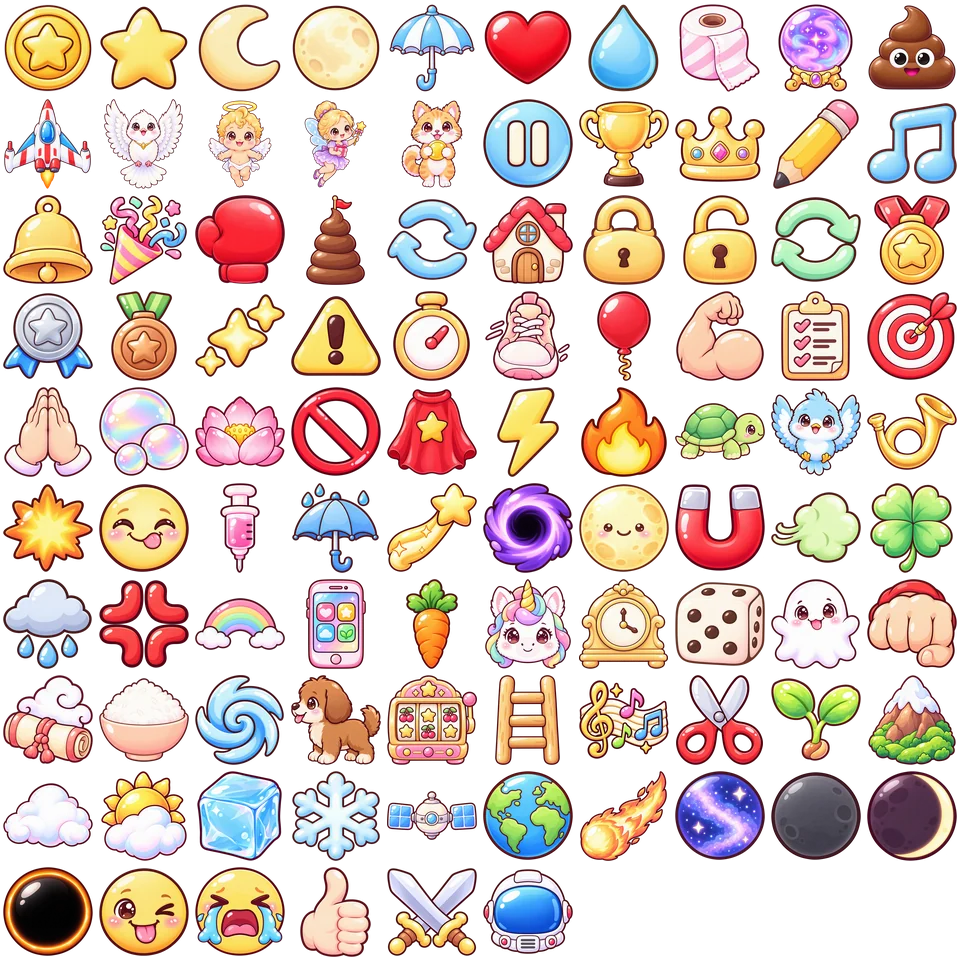
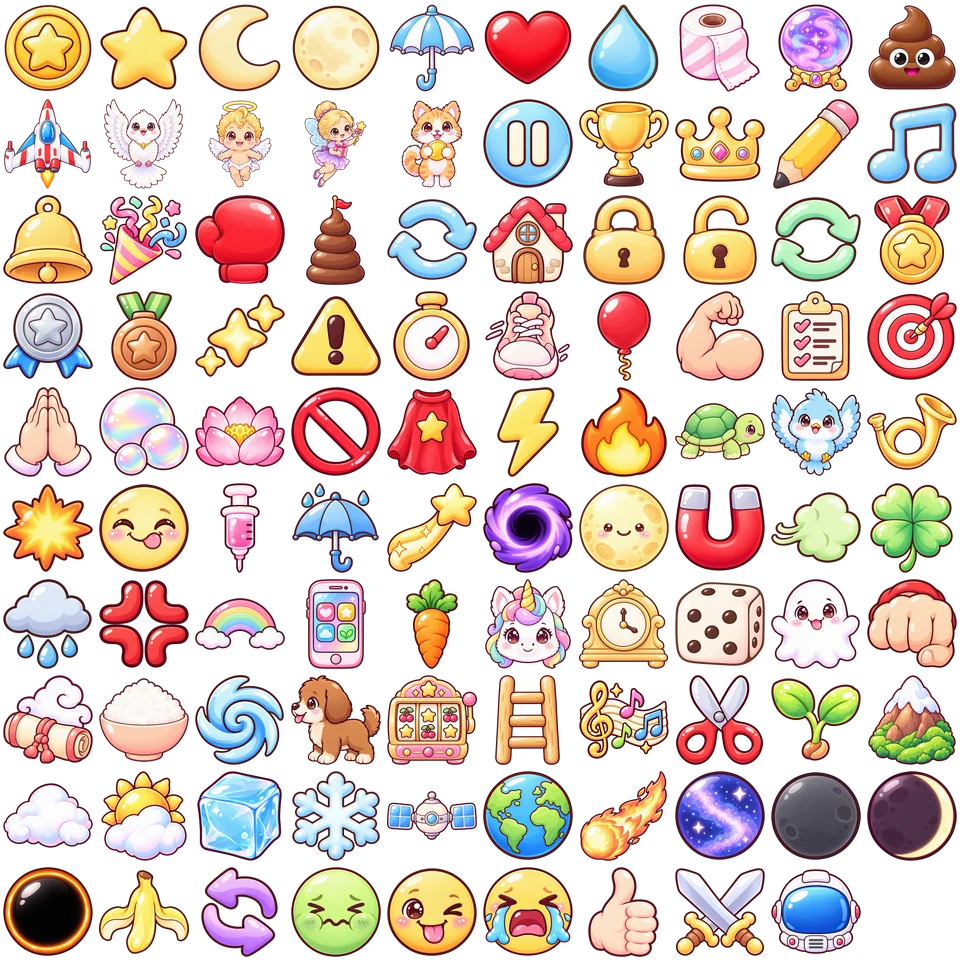
v0.8.32 대전 증강 — 로블록스판에서 6종(바나나·어지럼 저주·구린내·비둘기 폭격·얼음 바닥·잔상)

Changed region(s): [[0.0938, 0.9062, 0.9062, 1.0]]

diff --git a/index.html b/index.html
@@ -1060,7 +1060,7 @@
        밀어 숨길 뿐 남겨 두어 textContent 가 그대로다(글자를 읽는 코드가 안 깨진다). 나중에 붙는 글자는 MutationObserver 가 잡는다.
      · 캔버스 글자: fillText/strokeText 를 감싸 이모지 자리에 그림을 그린다 — 자리 폭은 원래 이모지 폭 그대로라 배치가 안 바뀐다.
      그림이 아직 안 왔거나 목록에 없는 이모지는 원래 이모지로 나온다. */
-  /*ICONS-BEGIN*/ const ICON_KEYS = ["🪙", "⭐", "🌙", "🌕", "☂", "❤", "💧", "🧻", "🔮", "💩", "🚀", "🕊", "👼", "🧚", "🐈", "⏸", "🏆", "👑", "✏", "🎵", "🔔", "🎉", "🥊", "🗼", "🔄", "🏠", "🔒", "🔓", "🔁", "🥇", "🥈", "🥉", "✨", "⚠", "⏱", "🏃", "🎈", "💪", "📋", "🎯", "🙏", "🫧", "🧘", "🚫", "🦸", "⚡", "🔥", "🐢", "🐦", "📯", "💥", "😋", "💉", "☔", "🌠", "🕳", "🌝", "🧲", "💨", "🍀", "🌧", "💢", "🌈", "📱", "🥕", "🦄", "🕰", "🎲", "👻", "👊", "👯", "🍚", "🌀", "🐕", "🎰", "🪜", "🎼", "✂", "🌱", "⛰", "☁", "🌤", "🧊", "❄", "🛰", "🌍", "☄", "🌌", "🌑", "🌒", "⚫", "😜", "😭", "👍", "⚔", "🧑🚀"]; const ICON_COLS = 10, ICON_ROWS = 10, ICON_CELL = 96; /*ICONS-END*/
+  /*ICONS-BEGIN*/ const ICON_KEYS = ["🪙", "⭐", "🌙", "🌕", "☂", "❤", "💧", "🧻", "🔮", "💩", "🚀", "🕊", "👼", "🧚", "🐈", "⏸", "🏆", "👑", "✏", "🎵", "🔔", "🎉", "🥊", "🗼", "🔄", "🏠", "🔒", "🔓", "🔁", "🥇", "🥈", "🥉", "✨", "⚠", "⏱", "🏃", "🎈", "💪", "📋", "🎯", "🙏", "🫧", "🧘", "🚫", "🦸", "⚡", "🔥", "🐢", "🐦", "📯", "💥", "😋", "💉", "☔", "🌠", "🕳", "🌝", "🧲", "💨", "🍀", "🌧", "💢", "🌈", "📱", "🥕", "🦄", "🕰", "🎲", "👻", "👊", "👯", "🍚", "🌀", "🐕", "🎰", "🪜", "🎼", "✂", "🌱", "⛰", "☁", "🌤", "🧊", "❄", "🛰", "🌍", "☄", "🌌", "🌑", "🌒", "⚫", "🍌", "😵", "🤢", "😜", "😭", "👍", "⚔", "🧑🚀"]; const ICON_COLS = 10, ICON_ROWS = 10, ICON_CELL = 96; /*ICONS-END*/
   const ICON_IDX = new Map(ICON_KEYS.map((k, i) => [k, i]));
   const ICON_RE = ICON_KEYS.length ? new RegExp("(" + ICON_KEYS.slice().sort((a, b) => b.length - a.length)
     .map(k => k.replace(/[.*+?^${}()|[\]\\]/g, "\\$&")).join("|") + ")\\uFE0F?", "gu") : null;
@@ -1179,7 +1179,7 @@
   const elTitle = document.getElementById("overTitle");
   const coinNote = document.getElementById("coinNote");
 
-  const GAME_VERSION = "v0.8.31";
+  const GAME_VERSION = "v0.8.32";
   /* 제작사 스플래시(bamhobak friends 로고) — 2026-09-20 끔. 다시 켜려면 true */
   const SPLASH_USE = false;   // 코드를 고칠 때마다 뒤 두 자리를 올린다
   document.getElementById("ver").textContent = GAME_VERSION;
@@ -5909,7 +5909,7 @@
     if (vsOn() && drag && !dragBlocked(e) && swipeUp(drag, pointerY(e), performance.now())) vsJump(1);   // 두 폰 대전 — 위로 쓸면 점프
     if (dragBlocked(e)) { drag = null; if (e.cancelable) e.preventDefault(); return; }
     if (!drag) { dragAnchor(e); if (e.cancelable) e.preventDefault(); return; }   // 막혀 있던 손가락은 여기서 기준점을 잡는다
-    const kd = prophIs("reverse") ? -1 : 1;           // 거꾸로 가는 날 — 끄는 방향과 반대로
+    const kd = (prophIs("reverse") || (vsOn() && vsReversed(player, performance.now()))) ? -1 : 1;   // 거꾸로 가는 날·어지럼 저주 — 끄는 방향과 반대로
     const wantX = drag.px + (pointerX(e) - drag.fx) * DRAG_GAIN * kd;
     const x = Math.max(player.r, Math.min(W - player.r, wantX));
     if (x !== wantX) drag.px += x - wantX;            // 끝에 닿으면 기준점을 끌어온다
@@ -7180,7 +7180,7 @@
     const kSpeed = 448 * spdMul() * dt;   // 키보드·십자패드 이동 속도 (v0.8.00 에 560 에서 20% 줄였다)
     // 패드는 민 정도만큼 속도가 붙는다 (키보드는 늘 최고 속도)
     const kx = kSpeed, ky = kSpeed;
-    const kd = prophIs("reverse") ? -1 : 1;           // 거꾸로 가는 날 — 좌우가 바뀐다
+    const kd = (prophIs("reverse") || (vsOn() && vsReversed(player, now))) ? -1 : 1;   // 거꾸로 가는 날·어지럼 저주 — 좌우가 바뀐다
     const vk = vsOn() && !NET.role;                   // 한 폰 대전 — 방향키는 P2 몫
     if ((!vk && keys.ArrowLeft)  || keys.a || keys.A) player.tx -= kx * kd;
     if ((!vk && keys.ArrowRight) || keys.d || keys.D) player.tx += kx * kd;
@@ -7194,9 +7194,12 @@
     const prev = player.x;
     // 손가락을 반대편에 찍어도 순간이동하지 않도록 최고 속도를 제한한다
     // 대전모드 — 밟혀서 멈춘 동안은 제자리 (손가락 목표는 그대로 두어 풀리면 가던 쪽으로 간다)
-    const want = (vsOn() && stunned(player, now)) ? 0 : (player.tx - player.x) * Math.min(1, dt * 20);
-    const maxStep = PLAYER_MAX_SPEED * spdMul() * dt;
-    player.x += Math.max(-maxStep, Math.min(maxStep, want));
+    if (vsOn()) vsMoveBody(player, dt, now);          // 대전모드 — 밟혀 멈춤·바나나·얼음·구린내
+    else {
+      const want = (player.tx - player.x) * Math.min(1, dt * 20);
+      const maxStep = PLAYER_MAX_SPEED * spdMul() * dt;
+      player.x += Math.max(-maxStep, Math.min(maxStep, want));
+    }
     /* ── 방귀 대시 — 돌진하는 동안은 끌기보다 앞선다 ──
        끌기 기준점(drag.px)과 목표(player.tx)를 함께 끌고 가야, 대시가 끝나는 순간
        손가락이 잡고 있던 원래 자리로 확 빨려 돌아가지 않는다. */
@@ -8455,6 +8458,9 @@
     player.emo = rival.emo = null;
     bubbleOn = job === "bangul"; rival.bubble = rivalJob === "bangul";   // 방울이 — 판마다 한 번 막는 비누방울
     player.floatT = rival.floatT = 0;
+    vsPeels = []; vsIce = []; vsPigeons = [];
+    for (const b of [player, rival]) { b.slipUntil = 0; b.revUntil = 0; b.stinkT = 0; b.iv = 0; }
+    rival.dodge = 0;
     p1kv = 0; vsBumpCd = 0; vsLoser = 0; vsTouches.clear();
     facing = NET.role === "guest" ? "left" : "right";
     rival.facing = NET.role === "guest" ? "right" : "left";
@@ -8508,7 +8514,7 @@
           d = { who, fx: x, px: who === 1 ? player.tx : rival.tx };
           vsTouches.set(t.identifier, d);
         }
-        const want = d.px + (x - d.fx) * DRAG_GAIN;
+        const want = d.px + (x - d.fx) * DRAG_GAIN * (vsReversed(d.who === 1 ? player : rival, performance.now()) ? -1 : 1);
         const cl = Math.max(player.r, Math.min(W - player.r, want));
         if (cl !== want) d.px += cl - want;            // 끝에 닿으면 기준점을 끌어온다
         if (d.who === 1) player.tx = cl; else rival.tx = cl;
@@ -8524,14 +8530,16 @@
       if (g) rival.tx = g.x + (g.vx || 0) * ((now - NET.gAt) / 1000 + NET_LAT);
     } else {                                            // 한 폰 — P2 는 ← → 와 오른쪽 손가락
       const ks = 448 * dt;
-      if (keys.ArrowLeft)  rival.tx -= ks;
-      if (keys.ArrowRight) rival.tx += ks;
+      const rk = vsReversed(rival, now) ? -1 : 1;         // 어지럼 저주
+      if (keys.ArrowLeft)  rival.tx -= ks * rk;
+      if (keys.ArrowRight) rival.tx += ks * rk;
     }
     rival.tx = Math.max(player.r, Math.min(W - player.r, rival.tx));
     const prev = rival.x;
-    // 밟혀서 멈춘 동안 제자리 (두 폰이면 상대 폰이 스스로 멈춘다)
-    const want = (!net && stunned(rival, now)) ? 0 : (rival.tx - rival.x) * Math.min(1, dt * 20), maxStep = PLAYER_MAX_SPEED * dt;
-    rival.x += Math.max(-maxStep, Math.min(maxStep, want));
+    if (net) {                                          // 두 폰 — 받은 자리를 따라갈 뿐 (멈춤·미끄러짐은 상대 폰이 스스로)
+      const want = (rival.tx - rival.x) * Math.min(1, dt * 20), maxStep = PLAYER_MAX_SPEED * 1.5 * dt;
+      rival.x += Math.max(-maxStep, Math.min(maxStep, want));
+    } else vsMoveBody(rival, dt, now);
     // 튕겨 나가는 힘 — 금방 잦아든다
     if (rival.kv) vsShift(2, rival.kv * dt);
     if (p1kv) vsShift(1, p1kv * dt);
@@ -8556,6 +8564,7 @@
 
     vsMoonStep(dt);
     vsRouletteStep(dt);
+    vsWorldStep(dt, now);
     if (!net && dying <= 0) {                            // 한 폰 P2 가 달을 먹는다 (두 폰이면 상대 폰이 잰다)
       const cy2 = rival.y + rival.hy;
       for (let i = items.length - 1; i >= 0; i--) {
@@ -8638,6 +8647,11 @@
       if (it.type !== "poop" || it.bounced || it.ghost || it.gold || it.skin === "fever") continue;
       const px = it.x - (it.vx || 0) * dt, py = it.y - (it.vy || 0) * dt;
       if (segDist(rival.x, cy, px, py, it.x, it.y) >= it.r + R) continue;
+      if (rival.dodge > 0 && Math.random() < rival.dodge) {   // 잔상 — 잔상만 남기고 피한다
+        it.ghost = true;
+        popText(rival.x, rival.y - 60, "잔상!", "#cbb8ff", 18);
+        continue;
+      }
       if (rival.bubble) {                                // 방울이 비누방울 — 판마다 한 번
         rival.bubble = false; rival.inv = now + 900;
         items.splice(i, 1);
@@ -8763,7 +8777,14 @@
     { id: "dash",  ic: "💨", nm: "방귀 대시",  keep: true },   // 두 번 두드려 순간이동 (제 폰의 제 캐릭터만)
     { id: "umb",   ic: "☂", nm: "우산" },                     // 똥 한 번 막기 (최대 2)
     { id: "heart", ic: "❤", nm: "하트" },                     // 목숨 +1 (최대 5)
-    { id: "bomb",  ic: "💩", nm: "똥 폭탄" }                   // 상대 머리 위로 똥 세 개
+    { id: "bomb",  ic: "💩", nm: "똥 폭탄" },                  // 상대 머리 위로 똥 세 개
+    // v0.8.32 로블록스판에서 가져온 것 (설명은 아래 '로블록스판에서 가져온 것')
+    { id: "banana",  ic: "🍌", nm: "바나나 껍질" },
+    { id: "reverse", ic: "😵", nm: "어지럼 저주" },
+    { id: "stink",   ic: "🤢", nm: "구린내" },
+    { id: "pigeon",  ic: "🐦", nm: "비둘기 폭격" },
+    { id: "ice",     ic: "🧊", nm: "얼음 바닥" },
+    { id: "ghost",   ic: "👻", nm: "잔상" }
   ];
   const VS_RL_SEC = 1, VS_MOON_MIN = 8, VS_MOON_MAX = 12, VS_MAX_LIVES = 5;
   let vsMoonT = 0;
@@ -8771,7 +8792,9 @@
   function vsHas(b, id) { return !!vsAugOf(b)[id]; }
   // 무엇이 나올지 — 계속 붙는 것 중 이미 가진 건 뺀다. 한 폰의 P2 는 두드릴 곳이 없어 방귀 대시를 뺀다
   function vsRollAug(b) {
-    const pool = VS_AUGS.filter(a => !(a.keep && vsHas(b, a.id)) && !(a.id === "dash" && b === rival && !NET.role));
+    const dodge = b === player ? aug.dodge : (b.dodge || 0);
+    const pool = VS_AUGS.filter(a => !(a.keep && vsHas(b, a.id)) && !(a.id === "dash" && b === rival && !NET.role)
+                                    && !(a.id === "ghost" && dodge >= VS_DODGE_MAX));   // 잔상은 두 번까지
     return pool[Math.floor(Math.random() * pool.length)].id;
   }
   // who(1 = 이 폰의 나, 2 = 상대)가 달을 먹었다 — 룰렛을 돌리고 끝나면 붙인다
@@ -8792,6 +8815,7 @@
       else if (!guestSide) rival.lives = Math.min(VS_MAX_LIVES, rival.lives + 1);   // 들어온 쪽은 상대 목숨을 받은 값으로만 본다
     }
     if (id === "bomb" && !guestSide) vsDropBomb(me ? rival : player);              // 똥은 방장(한 폰)이 만든다
+    vsApplyRb(who, id, performance.now());
     const x = b.x, y = (b.y || groundY) + (b === player ? player.hy : rival.hy) - vsR() * 2.8;
     popText(x, y, (a ? a.ic + " " + a.nm : id) + "!", me ? "#8fd0ff" : "#ffb3d6", 22);
     burst(x, y + 20, "#ffe08a", 14);
@@ -9000,6 +9024,129 @@
     }
   }
 
+  /* ---------- 대전 증강 — 로블록스판에서 가져온 것 (v0.8.32) ----------
+     🍌 바나나 껍질 — 내 발밑에 껍질. 상대가 밟으면 VS_SLIP_MS 동안 조작이 안 먹고 미끄러진다 (내 껍질은 안 미끄러진다)
+     😵 어지럼 저주 — 상대의 좌우가 VS_REV_MS 동안 반대
+     🤢 구린내 — VS_STINK_SEC 동안 내 둘레에 초록 구름. 상대가 안에 있으면 걸음이 절반
+     🐦 비둘기 폭격 — 비둘기 두 마리가 나에게서 좌우로 날아가며 똥을 VS_PG_DROPS 개씩 떨군다
+     🧊 얼음 바닥 — 내가 보는 쪽 앞 바닥이 VS_ICE_SEC 동안 얼음. 올라서면(누구든) 미끄러워 늦게 서고 늦게 돈다
+     👻 잔상 — 맞을 때 15% 로 잔상만 남기고 피한다 (두 번까지 쌓여 30%)
+     두 폰이면 증강이 붙을 때 두 폰이 똑같이 만든다(껍질·얼음·구름·비둘기). 똥은 방장만 떨구고,
+     껍질을 밟았는지는 밟은 쪽 폰이 재서 상대 폰에 알린다("peel"). */
+  const VS_SLIP_MS = 1000, VS_REV_MS = 5000, VS_STINK_SEC = 4, VS_ICE_SEC = 5, VS_PG_DROPS = 7;
+  const VS_PG_START = 40, VS_PG_GAP = 40, VS_PG_SPEED = 200, VS_ICE_LEN = 220, VS_DODGE = 0.15, VS_DODGE_MAX = 0.3;
+  let vsPeels = [], vsIce = [], vsPigeons = [];
+  function vsStinkR() { return vsR() * 4; }
+  function vsOther(b) { return b === player ? rival : player; }
+  function vsReversed(b, now) { return now < (b.revUntil || 0); }
+  function vsOnIce(b) { return (b.jh || 0) < 4 && vsIce.some(z => b.x >= z.x0 && b.x <= z.x1); }
+  function vsInStink(b) {
+    const o = vsOther(b);
+    return (o.stinkT || 0) > 0 && Math.abs(b.x - o.x) < vsStinkR() && Math.abs((b.jh || 0) - (o.jh || 0)) < vsStinkR();
+  }
+  // 몸 하나 옮기기 — 미끄러짐(바나나)·멈춤(밟기)·얼음·구린내를 반영한다
+  function vsMoveBody(b, dt, now) {
+    const lo = player.r, hi = W - player.r;
+    if (now < (b.slipUntil || 0)) {                    // 바나나 — 조작이 안 먹고 미끄러져 간다
+      b.x = Math.max(lo, Math.min(hi, b.x + (b.slipV || 0) * dt));
+      b.slipV = (b.slipV || 0) * Math.exp(-2.5 * dt);
+      b.iv = 0;
+      return;
+    }
+    if (stunned(b, now)) { b.iv = 0; return; }
+    const maxS = PLAYER_MAX_SPEED * (vsInStink(b) ? 0.5 : 1);
+    const desired = Math.max(-maxS, Math.min(maxS, (b.tx - b.x) * 20));
+    b.iv = vsOnIce(b) ? (b.iv || 0) + (desired - (b.iv || 0)) * Math.min(1, dt * 1.6) : desired;   // 얼음 위는 늦게 서고 늦게 돈다
+    b.x = Math.max(lo, Math.min(hi, b.x + b.iv * dt));
+  }
+  function vsDropPoopAt(x, y, vy) {
+    const r = 15 * VS_SCALE * 1.1;
+    items.push({ type: "poop", emoji: "💩", x: Math.max(r, Math.min(W - r, x)), y, r,
+                 vx: 0, vy: vy * (H / BASE_H), rot: 0, vr: (Math.random() - .5) * 4, swayA: 0, swayW: 1, swayP: 0,
+                 size: r * 2, sz: r, fast: true, skin: "poop", space: inSpace(), gold: false, dark: false, special: null,
+                 bumpCd: 0, phase: 0, splitAt: 1e9, sz0: 0, pv: randPv(), gain: 0, giant: false, born: elapsed });
+  }
+  // 로블록스판 증강 붙이기 — who(1 나·2 상대)가 쓴 것. 두 폰이 똑같이 부른다
+  function vsApplyRb(who, id, now) {
+    const b = who === 1 ? player : rival, o = vsOther(b), host = NET.role !== "guest";
+    const face = (b === player ? facing : rival.facing) === "left" ? -1 : 1;
+    if (id === "banana") vsPeels.push({ x: b.x, owner: who, t: 25 });
+    else if (id === "reverse") {
+      o.revUntil = now + VS_REV_MS;
+      popText(o.x, groundY - (o.jh || 0) - vsR() * 3.4, "😵 좌우 반대!", "#c9a2ff", 20);
+    } else if (id === "stink") b.stinkT = VS_STINK_SEC;
+    else if (id === "pigeon") {
+      for (const dir of [-1, 1]) vsPigeons.push({ x0: b.x, x: b.x, y: H * 0.2, dir, n: 0, next: VS_PG_START, spawn: host, ph: Math.random() * 6 });
+    } else if (id === "ice") {
+      const a = b.x + face * vsR() * 1.2, z = a + face * VS_ICE_LEN;
+      vsIce.push({ x0: Math.max(0, Math.min(a, z)), x1: Math.min(W, Math.max(a, z)), t: VS_ICE_SEC });
+    } else if (id === "ghost") {
+      if (who === 1) aug.dodge = Math.min(VS_DODGE_MAX, aug.dodge + VS_DODGE);
+      else rival.dodge = Math.min(VS_DODGE_MAX, (rival.dodge || 0) + VS_DODGE);
+    }
+  }
+  // 매 프레임 — 껍질·얼음·구름·비둘기 (방장·한 폰은 vsUpdate, 들어온 쪽은 guestUpdate)
+  function vsWorldStep(dt, now) {
+    for (let i = vsPeels.length - 1; i >= 0; i--) { vsPeels[i].t -= dt; if (vsPeels[i].t <= 0) vsPeels.splice(i, 1); }
+    for (let i = vsIce.length - 1; i >= 0; i--) { vsIce[i].t -= dt; if (vsIce[i].t <= 0) vsIce.splice(i, 1); }
+    for (const b of [player, rival]) if (b.stinkT > 0) b.stinkT = Math.max(0, b.stinkT - dt);
+    // 껍질 밟기 — 제 몸은 제 폰이 잰다 (한 폰이면 둘 다)
+    const bodies = NET.role ? [[1, player]] : [[1, player], [2, rival]];
+    for (const [who, b] of bodies) {
+      if ((b.jh || 0) > 4 || now < (b.slipUntil || 0) || dying > 0) continue;
+      const k = vsPeels.findIndex(pl => pl.owner !== who && Math.abs(pl.x - b.x) < vsR() * 0.9);
+      if (k < 0) continue;
+      const pl = vsPeels.splice(k, 1)[0];
+      const face = (b === player ? facing : rival.facing) === "left" ? -1 : 1;
+      b.slipUntil = now + VS_SLIP_MS; b.slipV = face * 460;
+      if (NET.role) netSend("peel", { x: Math.round(pl.x) });
+      popText(b.x, groundY - vsR() * 3, "미끄덩!", "#ffe066", 22);
+      beep(300, .08, "sine", .05); beep(200, .12, "sine", .04);
+    }
+    // 비둘기 — 날아가며 똥을 떨군다 (똥은 방장·한 폰만 만든다)
+    for (let i = vsPigeons.length - 1; i >= 0; i--) {
+      const pg = vsPigeons[i];
+      pg.x += pg.dir * VS_PG_SPEED * dt; pg.ph += dt * 12;
+      while (pg.n < VS_PG_DROPS && Math.abs(pg.x - pg.x0) >= pg.next) {
+        if (pg.spawn && pg.x > 0 && pg.x < W) vsDropPoopAt(pg.x, pg.y + 10, 320);
+        pg.n++; pg.next += VS_PG_GAP;
+      }
+      if (pg.n >= VS_PG_DROPS && (pg.x < -60 || pg.x > W + 60)) vsPigeons.splice(i, 1);
+    }
+  }
+  function drawVsWorld(now) {
+    const gy = groundY + 2;
+    for (const z of vsIce) {                            // 얼음 바닥 — 땅 선을 따라 하늘색 띠
+      ctx.save();
+      ctx.globalAlpha = Math.min(1, z.t / 0.6) * 0.75;
+      ctx.fillStyle = "rgba(170,225,255,.7)"; ctx.strokeStyle = "rgba(255,255,255,.9)"; ctx.lineWidth = 2;
+      ctx.beginPath(); ctx.roundRect(z.x0, gy - 7, z.x1 - z.x0, 14, 7); ctx.fill(); ctx.stroke();
+      ctx.fillStyle = "#fff";
+      for (let k = z.x0 + 14; k < z.x1; k += 38) { ctx.beginPath(); ctx.arc(k + Math.sin(now / 300 + k) * 3, gy - 2, 1.8, 0, 6.283); ctx.fill(); }
+      ctx.restore();
+    }
+    for (const pl of vsPeels) {                          // 바나나 껍질
+      ctx.save();
+      ctx.globalAlpha = Math.min(1, pl.t / 0.6);
+      ctx.font = Math.round(vsR() * 1.1) + "px serif"; ctx.textAlign = "center"; ctx.textBaseline = "middle";
+      ctx.fillText("🍌", pl.x, gy - 6);
+      ctx.restore();
+    }
+    for (const b of [player, rival]) {                   // 구린내 구름
+      if (!(b.stinkT > 0)) continue;
+      const cx = b.x, cy = (b === player ? player.y + player.hy : rival.y + rival.hy), R = vsStinkR();
+      ctx.save();
+      ctx.globalAlpha = Math.min(1, b.stinkT / 0.5) * 0.28;
+      ctx.fillStyle = "#7cc84a";
+      for (let k = 0; k < 7; k++) {
+        const a = k * 0.9 + now / 900, rr = R * (0.42 + 0.12 * Math.sin(now / 400 + k));
+        ctx.beginPath(); ctx.arc(cx + Math.cos(a) * R * 0.5, cy + Math.sin(a) * R * 0.35, rr, 0, 6.283); ctx.fill();
+      }
+      ctx.restore();
+    }
+    for (const pg of vsPigeons) drawDove(pg.x, pg.y + Math.sin(pg.ph) * 4, pg.ph, null);
+  }
+
   /* ---------- 대전모드 온라인 (v0.8.25) — 두 폰으로 ----------
      Supabase Realtime(브로드캐스트)으로 방 하나(방 번호 4자리)에 둘이 들어간다. 라이브러리 없이 웹소켓으로 직접 붙는다
      (Phoenix 채널 규약: phx_join · broadcast · 25초마다 heartbeat).
@@ -9011,7 +9158,7 @@
      · 끝은 host 가 정한다("over"). 6초 동안 아무것도 안 오면 상대가 나간 것으로 친다.
      폰마다 제 캐릭터가 player(나), 상대가 rival 이다 — host 는 쉬었음 청년, guest 는 방울이. */
   const NET = { ws: null, topic: "", role: "", code: "", ref: 0, hbT: 0, lastRx: 0, sendT: 0, joined: false,
-                hiT: 0, items: new Map(), eaten: new Set(), snapAt: 0, snap: null, gAt: 0, g: null,
+                hiT: 0, items: new Map(), eaten: new Set(), dodged: new Set(), snapAt: 0, snap: null, gAt: 0, g: null,
                 again: false, peerAgain: false, gone: false };
   const NET_RATE = 0.1, NET_LAT = 0.08, NET_TIMEOUT = 6000;
   function netOn() { return !!NET.role && runMode === "vs"; }
@@ -9100,6 +9247,13 @@
     const now = performance.now();
     if (ev === "bye") { netLost(); return; }
     if (ev === "emo") { vsShowEmo(rival, p.e | 0); return; }
+    if (ev === "peel") {
+      let k = -1, bd = 60;
+      vsPeels.forEach((pl, i) => { const d = Math.abs(pl.x - p.x); if (d < bd) { bd = d; k = i; } });
+      if (k >= 0) vsPeels.splice(k, 1);
+      popText(rival.x, groundY - vsR() * 3, "미끄덩!", "#ffe066", 22);
+      return;
+    }
     if (NET.role === "host") {
       if (ev === "hi") {
         // 처음 한 번만 — 들어온 쪽은 'start' 를 받을 때까지 hi 를 되풀이하므로 두 번째부터는 무시
@@ -9145,7 +9299,7 @@
   function netStartMatch() {
     vsScreen.classList.add("hidden");
     overScreen.classList.add("hidden");
-    NET.items.clear(); NET.eaten.clear(); NET.snap = null; NET.g = null;
+    NET.items.clear(); NET.eaten.clear(); NET.dodged.clear(); NET.snap = null; NET.g = null;
     NET.again = NET.peerAgain = false; NET.gone = false; NET.sendT = 0; NET.lastRx = performance.now();
     beep(900, .08, "square", .05);
     reset(false);
@@ -9169,13 +9323,12 @@
       }
     }
     // 내 캐릭터 — 원래 판과 같은 움직임
-    const kSpeed = 448 * dt;
+    const kSpeed = 448 * dt * (vsReversed(player, now) ? -1 : 1);   // 어지럼 저주면 좌우 반대
     if (keys.ArrowLeft || keys.a || keys.A) player.tx -= kSpeed;
     if (keys.ArrowRight || keys.d || keys.D) player.tx += kSpeed;
     player.tx = Math.max(player.r, Math.min(W - player.r, player.tx));
     const prev = player.x;
-    const want = stunned(player, now) ? 0 : (player.tx - player.x) * Math.min(1, dt * 20), maxStep = PLAYER_MAX_SPEED * dt;   // 밟혀서 멈춘 동안 제자리
-    player.x += Math.max(-maxStep, Math.min(maxStep, want));
+    vsMoveBody(player, dt, now);                        // 밟혀 멈춤·바나나·얼음·구린내
     if (p1kv) vsShift(1, p1kv * dt);
     p1kv *= Math.exp(-7 * dt); if (Math.abs(p1kv) < 5) p1kv = 0;
     player.vx = (player.x - prev) / Math.max(dt, .001);
@@ -9186,6 +9339,7 @@
     player.y = groundY - (player.jh || 0);
     player.hy = headOffset(currentSprite(now));
     vsRouletteStep(dt);
+    vsWorldStep(dt, now);
     if (!s) return;
     // 상대(방장) — 받은 자리에서 속도만큼 앞당긴다
     const lead = age + NET_LAT;
@@ -9230,8 +9384,13 @@
     items = Array.from(NET.items.values());
     if (now < invUntil) return;
     for (const it of items) {
-      if (it.type !== "poop") continue;
+      if (it.type !== "poop" || NET.dodged.has(it.nid)) continue;
       if (segDist(player.x, cy, it.x - it.vx * dt, it.y - it.vy * dt, it.x, it.y) >= it.r + R) continue;
+      if (aug.dodge > 0 && Math.random() < aug.dodge) {   // 잔상 — 이 똥은 지나간다
+        NET.dodged.add(it.nid);
+        popText(player.x, player.y - 60, "잔상!", "#cbb8ff", 18);
+        continue;
+      }
       if (bubbleOn) {                                  // 방울이 비누방울 — 판마다 한 번 (방장에겐 맞은 것으로 알리지 않는다)
         bubbleOn = false; invUntil = now + 900;
         NET.eaten.add(it.nid); NET.items.delete(it.nid);
@@ -12676,6 +12835,7 @@
       drawItems(now);
       drawHelpers();
       if (state !== STATE.OVER) drawPetsBack(now);
+      if (vsOn() && state !== STATE.OVER && state !== STATE.READY) drawVsWorld(now);   // 얼음·껍질·구름·비둘기
       if (state !== STATE.OVER) drawPlayer(now);
       if (vsOn() && state !== STATE.OVER && state !== STATE.READY) { asRival(() => drawPlayer(now)); drawVsTags(now); drawVsRoulette(now); drawVsRead(now); }
       if (state !== STATE.OVER) drawInvGlow(now);

diff --git a/tools/icon_list.py b/tools/icon_list.py
@@ -88,6 +88,10 @@ NEW = [
     ("🌑", "newmoon", "a dark grey new moon disc with faint craters"),
     ("🌒", "darkmoon", "a dark moon with a thin glowing crescent on its right edge"),
     ("⚫", "horizon", "a glossy black orb with a thin glowing orange ring around its edge (black hole event horizon)"),
+    # 대전모드 증강 (로블록스판에서)
+    ("🍌", "banana", "a yellow banana peel lying open (peeled banana skin)"),
+    ("😵", "reverse", "two chubby arrows pointing opposite ways left and right in a circle, purple (confusion / reverse controls)"),
+    ("🤢", "stink", "a round green-faced nauseated emoji face (sick from a bad smell)"),
     # 대전모드 이모티콘 도발
     ("😜", "tease", "a round yellow emoji face winking with its tongue out playfully (teasing)"),
     ("😭", "sob", "a round yellow emoji face crying loudly with streams of tears"),

diff --git a/README.md b/README.md
@@ -5,7 +5,7 @@
 👉 **플레이: https://bamhobak.github.io/ddongpi/**
 
 > 이 문서는 `index.html` 의 실제 값을 옮겨 적은 것입니다. 숫자를 고쳤으면 여기도 같이 고쳐 주세요.
-> 마지막으로 맞춰 본 판: **v0.8.31**
+> 마지막으로 맞춰 본 판: **v0.8.32**
 
 ## ⚔ 대전모드 (v0.8.24 한 폰 · v0.8.25 두 폰)
 시작하기를 누르면 **[방 만들기] · [방 참가](방 번호 4자리) · [한 폰으로 둘이서]** 를 고릅니다.
@@ -23,6 +23,10 @@
   🎈 더블 점프(공중에서 한 번 더) · 💪 무거운 몸(밀리는 거리·밟혀 멈추는 시간 절반) · 👊 박치기(내가 들이받으면 1.6배) ·
   🌀 어질어질(내가 밟으면 두 배로 멈춤) · 💨 방귀 대시(두 번 두드려 순간이동) · ☂ 우산(똥 한 번 막기, 최대 2) ·
   ❤ 하트(목숨 +1, 최대 5) · 💩 똥 폭탄(상대 머리 위로 똥 셋).
+  v0.8.32 로블록스판에서 가져온 6가지: 🍌 바나나 껍질(발밑에 껍질 — 상대가 밟으면 1초 조작 불능·미끄러짐) · 😵 어지럼 저주(상대 좌우 5초 반대) ·
+  🤢 구린내(4초 초록 구름 — 안의 상대는 걸음 절반) · 🐦 비둘기 폭격(좌우로 날며 똥 7개씩) · 🧊 얼음 바닥(보는 쪽 앞 5초 — 올라서면 늦게 서고 늦게 돈다) ·
+  👻 잔상(맞을 때 15%로 피함, 30%까지). 두 폰이면 증강이 붙을 때 두 폰이 똑같이 만들고, 똥은 방장만 떨구며, 껍질을 밟았는지는 밟은 쪽 폰이 재서 알린다(`peel`).
+  (책임 전가·근육 폭발은 두 폰에서 같은 똥을 주고받아야 해서 뺐다.)
   계속 붙는 것(앞의 다섯)은 이미 가졌으면 다시 안 나오고, 가진 증강은 하트 줄 아래 작은 아이콘으로 보입니다. 한 폰의 P2 에겐 방귀 대시가 안 나옵니다(두드릴 곳이 없다).
   두 폰이면 방장이 무엇이 나올지 정해 둘 다에게 알립니다(`aug`), 들어온 쪽이 달을 먹으면 `take` 로 알립니다.
 - **두 폰**: 방장은 쉬었음 청년, 들어온 쪽은 방울이. 각자 화면 전체를 끌어 제 캐릭터를 움직이고, 머리 위에 `나`/`상대` 가 뜹니다.
